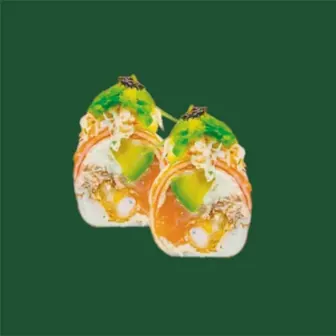
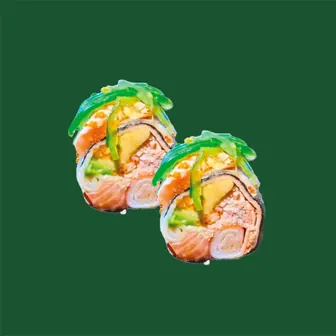
Update photo — Premium Krabi Roll

Changed region(s): [[0.1786, 0.2083, 0.8036, 0.8036]]

diff --git a/src/data/dishImages.ts b/src/data/dishImages.ts
@@ -168,7 +168,7 @@ export const CLIENT_DISH_IMAGES: Record<string, string> = {
 
   // Premium — captures produit Yumlo 15-58 / 15-59 (miniatures)
   "cec5e70b6a": "/menu-hd-onglet21/premium-cancun.jpg",
-  "6c2ba70a6f": "/menu-hd-onglet21/premium-krabi-roll.png",
+  "6c2ba70a6f": "/menu-hd-onglet21/premium-krabi-roll.jpg",
   "c6bf1f1759": "/menu-hd-onglet21/premium-fuji-roll.png",
   "b1b1b0e1ba": "/menu-hd-onglet21/premium-pink-salmon.png",
   "82bc3899c0": "/menu-hd-onglet21/premium-exotica-roll.png",

diff --git a/src/data/yumloMenu.ts b/src/data/yumloMenu.ts
@@ -1266,7 +1266,7 @@ export const YUMLO_MENU = [
     "description": "Saumon, eby fry, surimi crabe, avocat, goma wakamé",
     "priceMAD": "69.00",
     "currency": "MAD",
-    "image": "/menu-hd-onglet21/premium-krabi-roll.png"
+    "image": "/menu-hd-onglet21/premium-krabi-roll.jpg"
   },
   {
     "id": "c6bf1f1759",
